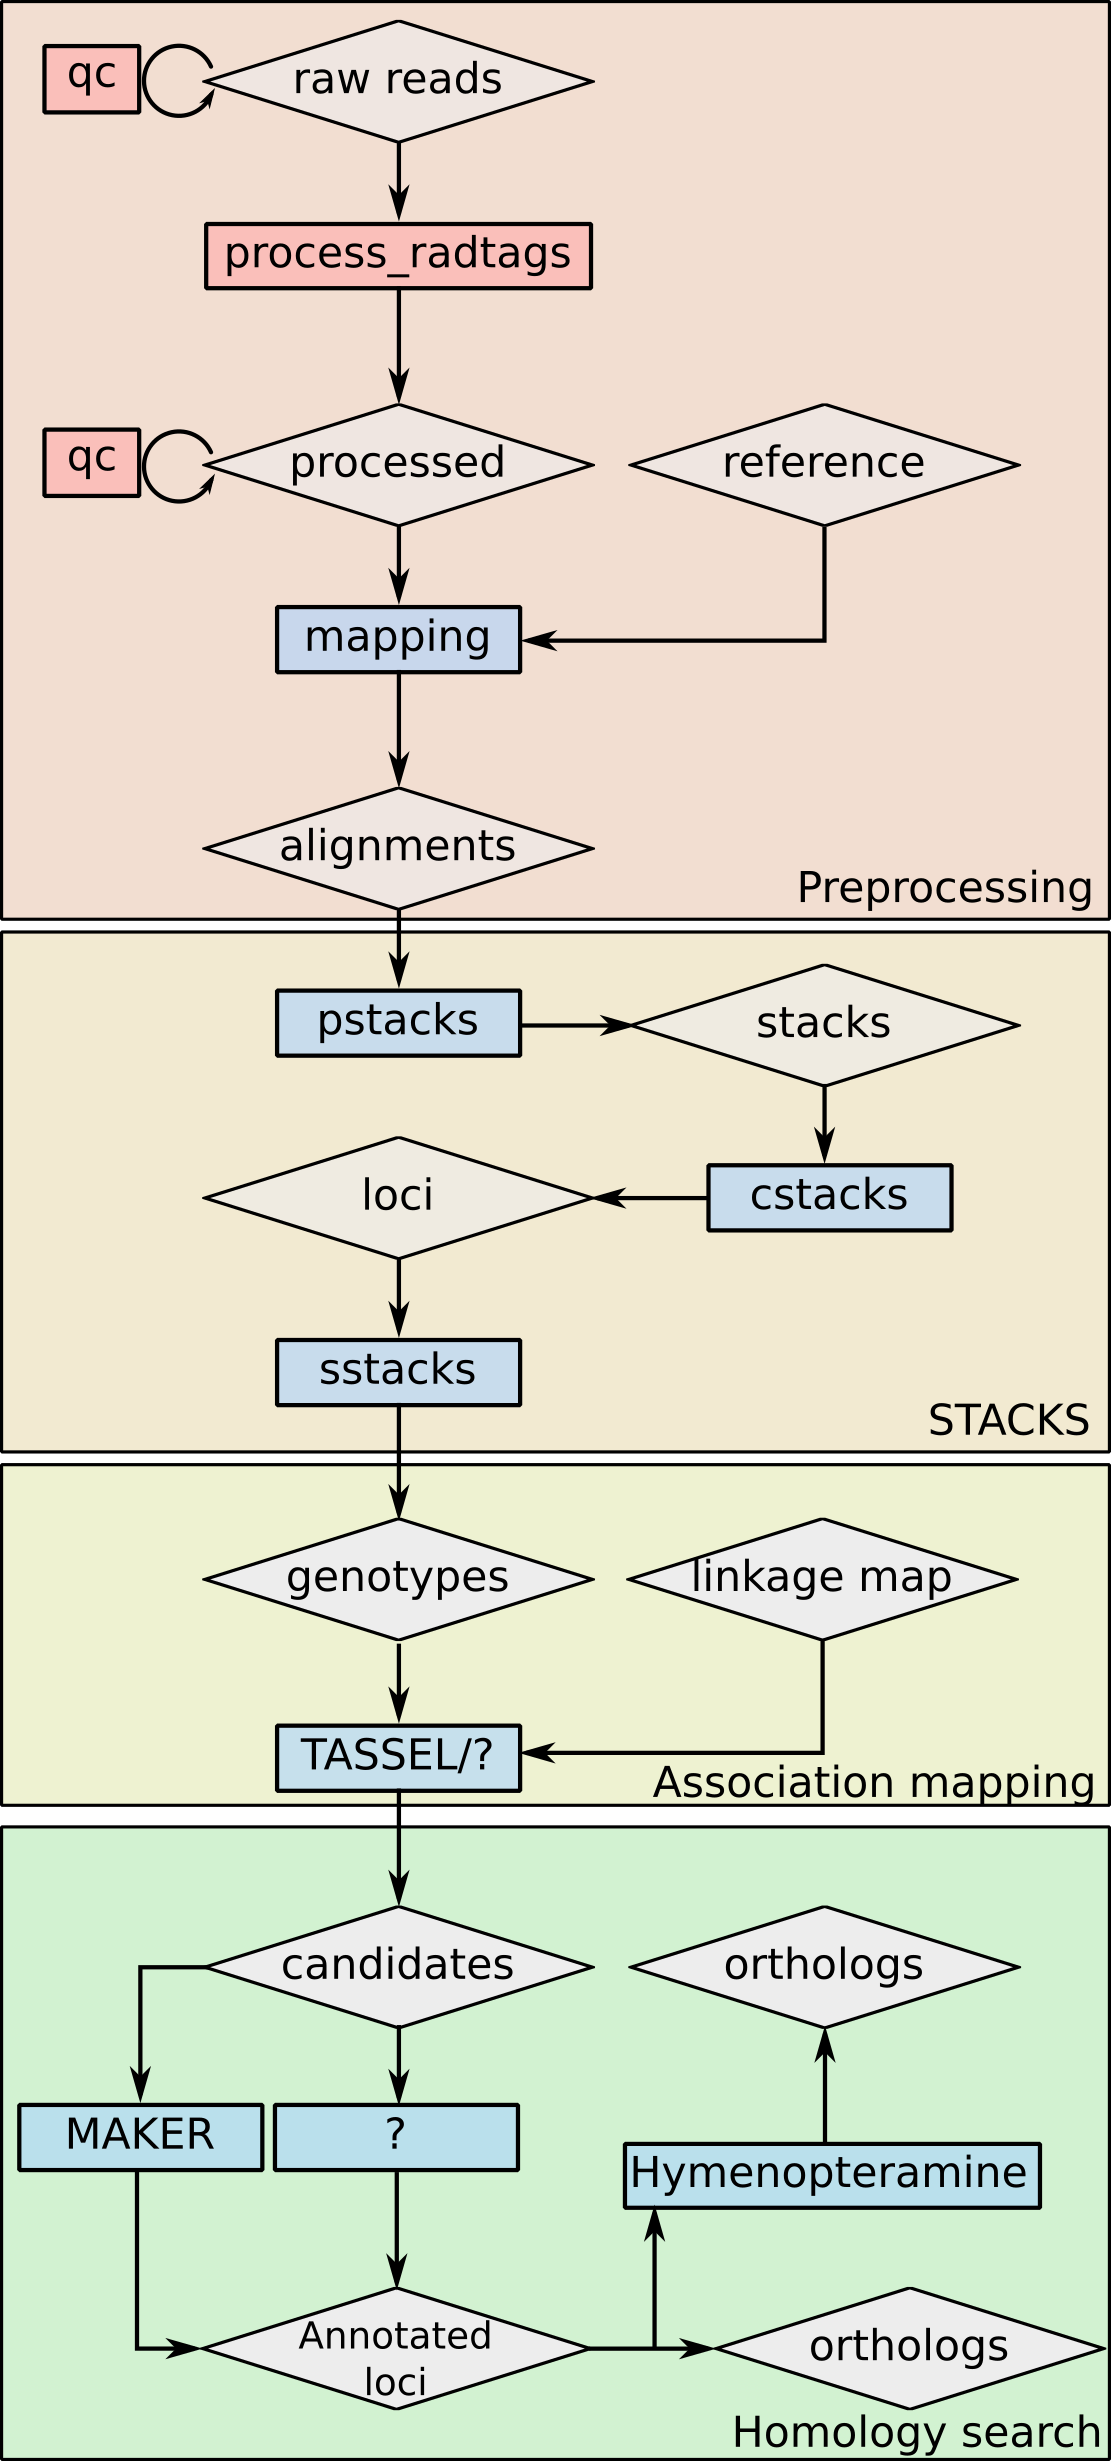
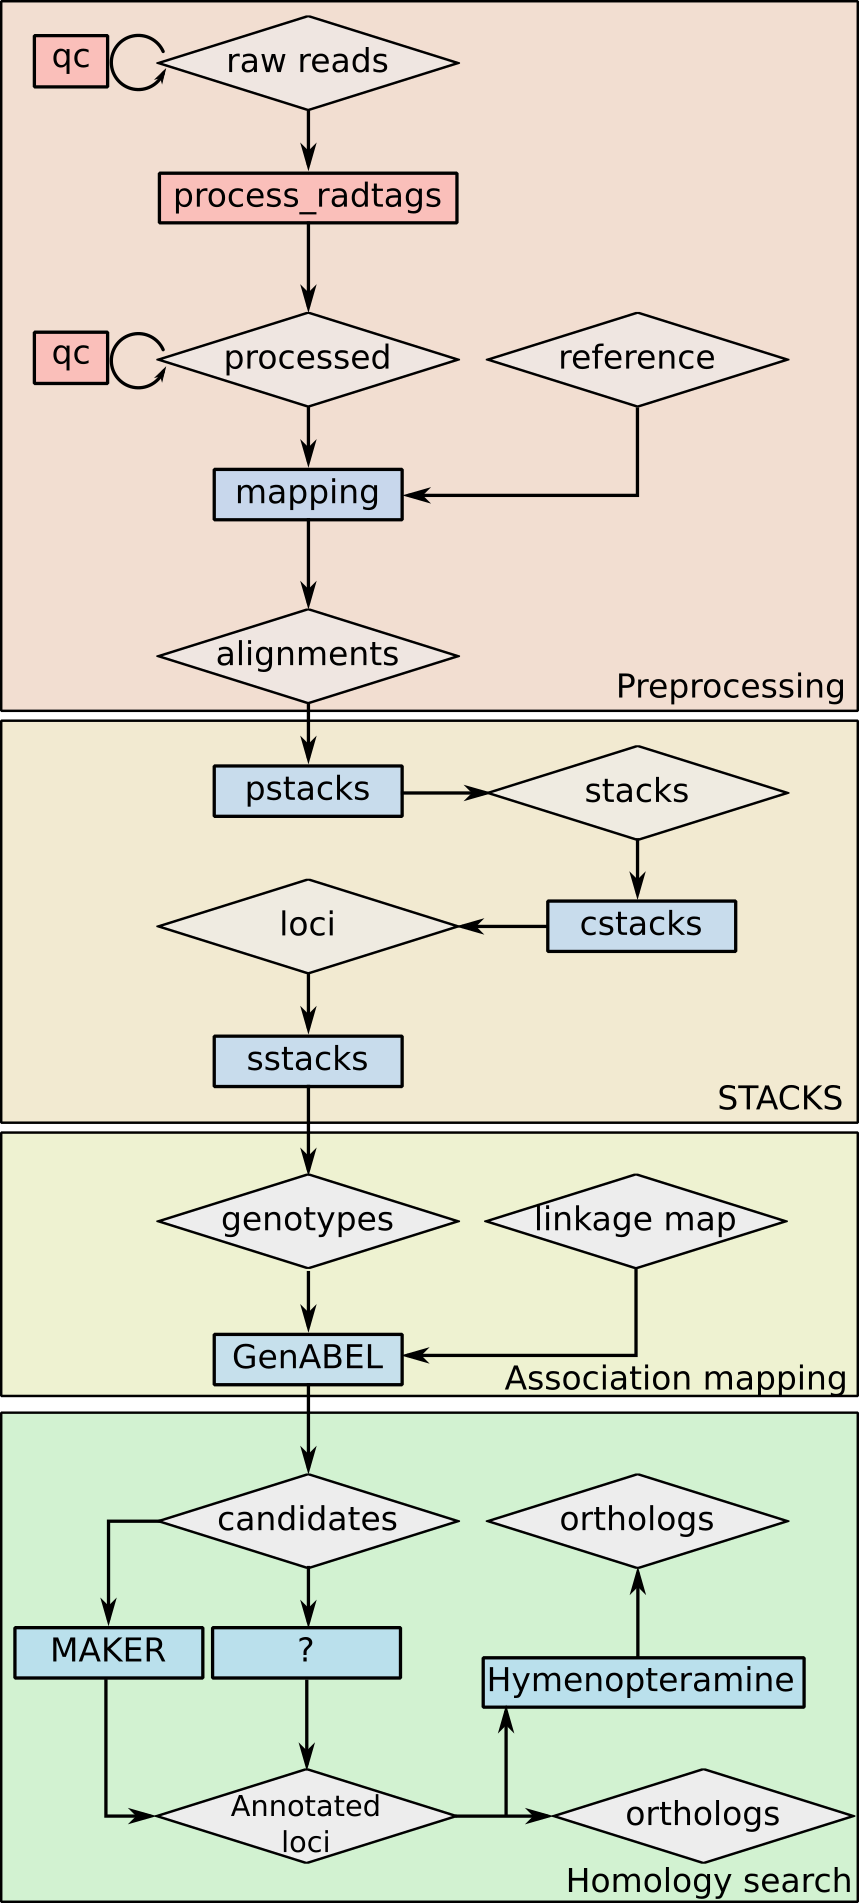
updated lab book with comments from meeting

diff --git a/reports/lab_book/lab_book.tex b/reports/lab_book/lab_book.tex
@@ -14,7 +14,9 @@
  \title{\textbf{Master Project}\\ Lab book}
  \maketitle
  \chapter{Introduction}
-Lysiphlebus fabarum wasp specimens issued from thelytokous mothers are used. These individuals come from crossing experiments in a strongly inbred line. They have a highly homozygous background, but females must be heterozygous at the CSD locus/loci. Here, we use RAD-seq with a custom pipeline to locate the locus/loci. Samples were single-end sequenced using a ddRAD protocole and digested with ecoRI and mseI. There are 2 separate libraries with two different illumina adaptors (6 and 12).
+
+The goal of this project is to identify the locus or loci responsible for sex determination in the parasitoid wasp \textit{Lysiphlebus fabarum}. The species is known to have CSD, which means there are one or more loci that need to be heterozygous in order to triggger female development. I will use the offspring of asexual (thelytokous) females to identify these loci. The offspring consists of haploid males, diploid males and diploid females. Using DNA sequencing data, I will exclude haploid males as they do not provide information on homozygosity/heterozygosity and compare only diploid males versus females to identify the CSD locus/loci.
+\textit{Lysiphlebus fabarum} wasp specimens (generation F4) issued from thelytokous mothers (generation F3) are used. These individuals come from crossing experiments in a strongly inbred line. Here, we use restriction site associated DNA sequencing(RAD-seq) with a custom pipeline to locate the locus/loci. Samples were single-end sequenced using a ddRAD protocole and digested with ecoRI and mseI. There are 2 separate libraries with two different illumina adaptors (detailed in next section). Statistics for the raw RAD-seq data of both libraries of F4 individuals are shown in the table below. I also reused sequencing data for the mothers (F3) from Casper, however I don't have the raw reads statistics as they were already processed.
 
 \begin{center}
 \begin{tabular}{l| c c}
@@ -362,8 +364,13 @@ In this analysis, I excluded all consensus loci (where all individuals had the s
 
 \section{TO DO}
 \begin{itemize}
-\item Check if there is a correlation between coverage depth and homozygosity. If so, this is bad news: alleles from heterozygous loci could be dropped because of low coverage, causing them to become homozygous.
-\item Use FIS of females to define haploid/diploid males with very stringent settings (few loci). And rerun analysis with less stringent parameters once we know which are haplo/diploid. 
+\item represent heterozygosity as distribution (histogram) to see if clearly bimodal (mod1: 1Nmales, mod2: 2Nmales and females.
+\item Are haplotypes in haplotypes.tsv STACKS populations file SNPs, or loci ? (Maybe can set flag to show SNPs/loci)
+\item Run pipeline (populations and down) separately for each family.
+\item Use heterozygosity instead of inbreeding coefficient for disinguishing between haploids and diploids.
+\item investigate SNPs with more than 2 alleles: individuals specific (contamination) or locus specific (paralogs merged) kickout concerned individuals/loci based on results
+\item Black list loci homozygous in mothers  (not CSD candidates).
+\item Visualize average heterozygosity (or allele frequency) at each SNPs in offpring versus in mother to assess transmission bias (hom SNPs in mothers more often het in offspring or reversse). 
 \item Validate haploid definition using haplotypes deduced from linkage map.
 \item convert VCF file into PED format using vcftools
 \item import data into genABEL and perform association mapping
